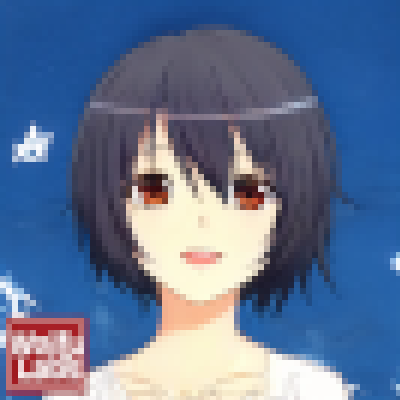
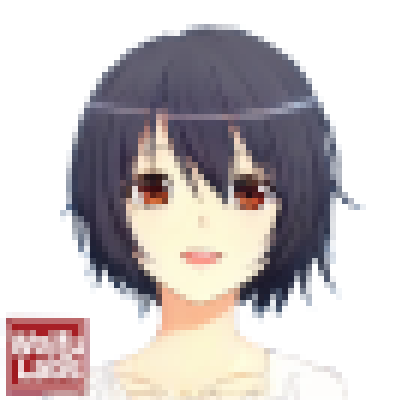
use transparent char

diff --git a/app/src/components/char-interactions/CharInteractions.scss b/app/src/components/char-interactions/CharInteractions.scss
@@ -10,10 +10,27 @@
   }
 }
 
+.CharacterInteractions__character-bg {
+  position: relative;
+  width: 100%;
+  background-color: #1F5198;
+  overflow: hidden;
+
+  &::before {
+    content: '';
+    display: block;
+    padding-top: 100%;
+  }
+}
+
 .CharacterInteractions__character {
+  position: absolute;
+  left: 50%;
+  bottom: -6px;
+  transform: translateX(-50%);
   width: 100%;
   height: auto;
-  border-radius: 4px;
+  border-radius: 16px;
 }
 
 .CharacterInteractions__input {
@@ -22,7 +39,7 @@
   flex: 1;  
   background-color: transparent;
   border-color: #664229;
-  border-radius: 8px;
+  border-radius: 16px;
   border-width: 4px;
   font-size: 2rem;
   color: #664229;

diff --git a/app/src/components/char-interactions/CharInteractions.js b/app/src/components/char-interactions/CharInteractions.js
@@ -4,7 +4,9 @@ import "./CharInteractions.scss";
 const CharacterInteractions = (props) => {
   return (
     <div className="CharacterInteractions">
-      <img class="CharacterInteractions__character" src={Char} alt="anime character"/>
+      <div class="CharacterInteractions__character-bg">
+        <img class="CharacterInteractions__character" src={Char} alt="anime character"/>
+      </div>
       <h2>Job-chan</h2>
       <textarea className="CharacterInteractions__input" value="Have you applied to any jobs today?"/>
     </div>
